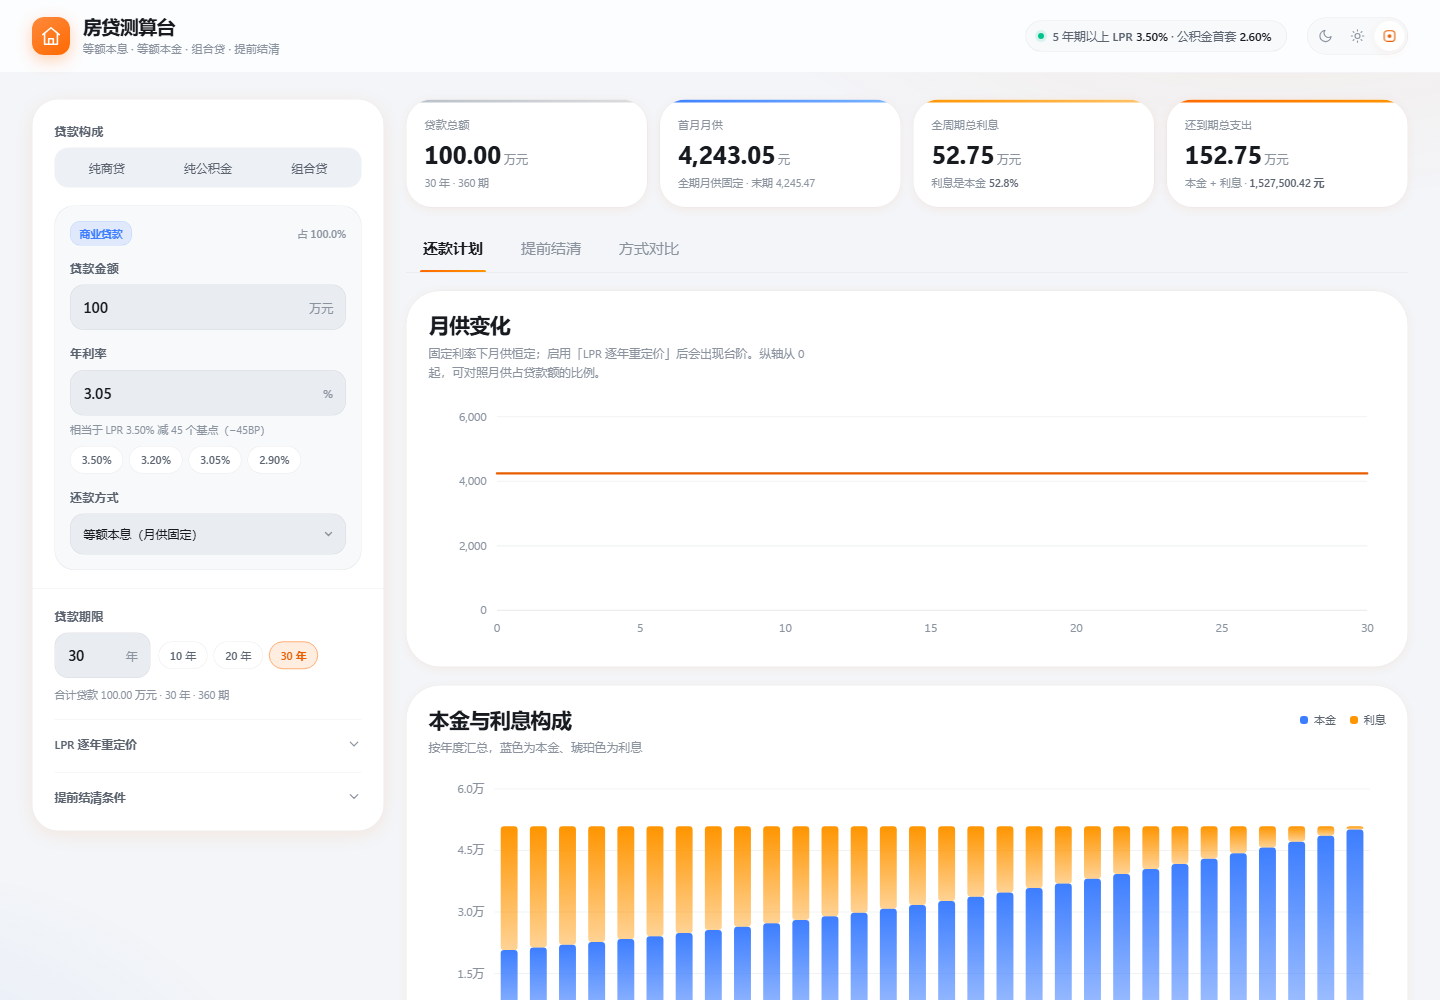
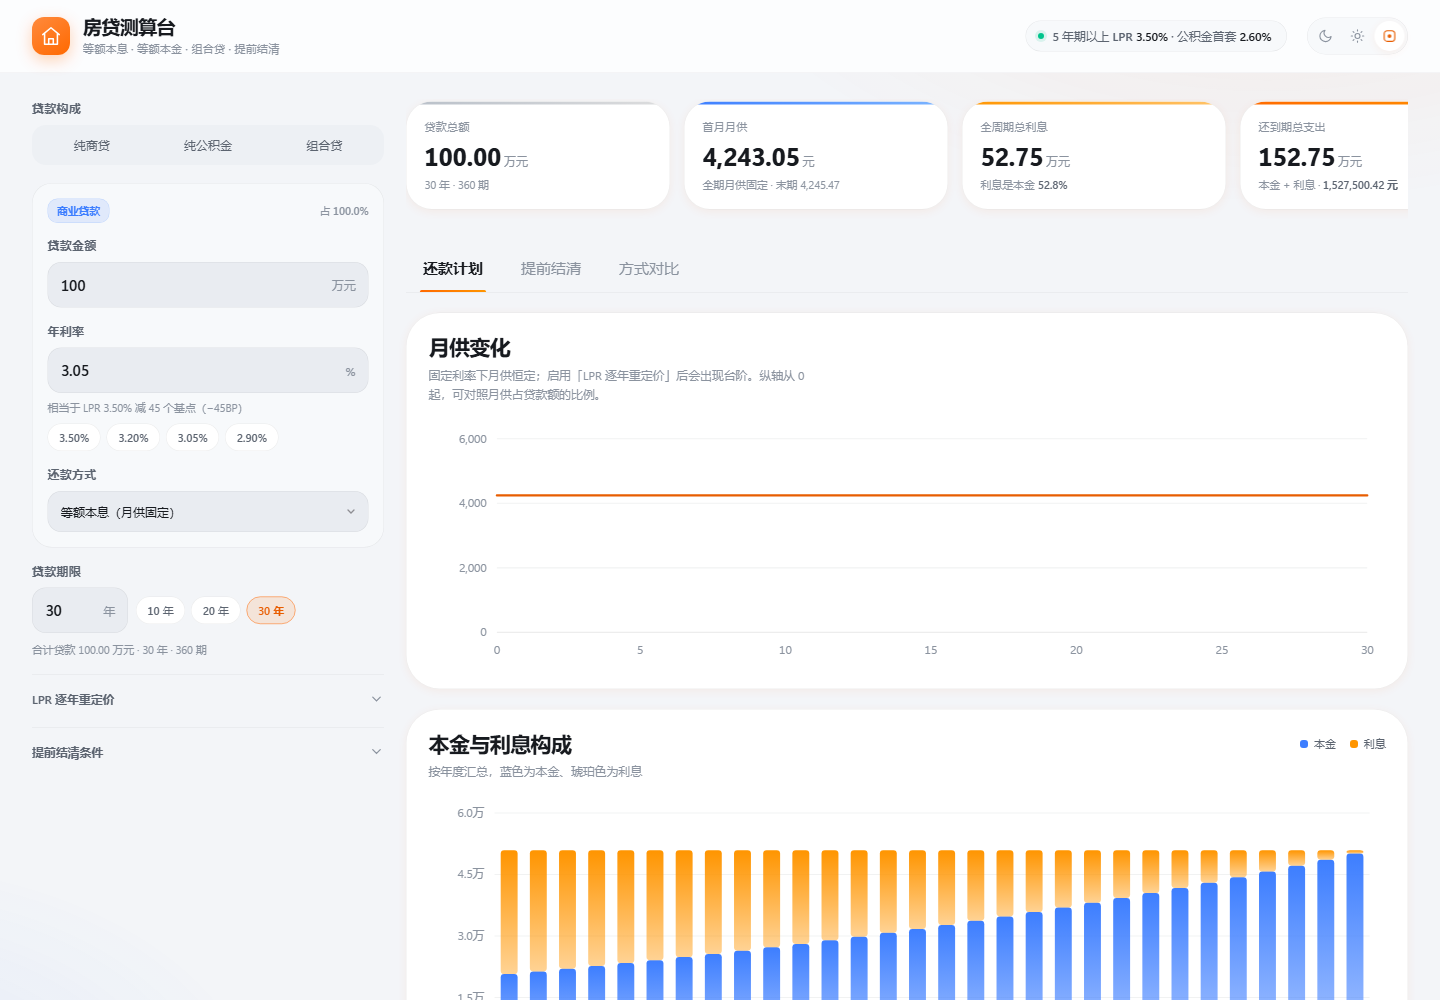
feat: 小米主题升级为卡片化布局变体
不只是换肤，是换结构（仅小米主题生效，Apple 两套不受影响）:

- KPI 变横向滑动大卡片: scroll-snap + 固定 264px 宽，
  第 4 张自然溢出以暗示可滑动。实测 scrollWidth 1102 > clientWidth 1002
- 输入面板拆成独立卡片流: 容器透明化，贷款构成 / 金额 / 期限 /
  高级设置各自成卡，卡片间距承担分隔职责（隐藏分隔线）
- 间距加大，卡片圆角升到 26px，更贴合 HyperOS 的呼吸感

Apple 两套主题仍是标准双栏 + 四列 KPI 网格，已截图确认无回归。

验证方式的一个调整: 横向滑动这类交互行为**截图判断不了**，
改用断言锁住 scrollWidth > clientWidth，比人眼看裁切可靠。

验证: 52 项单测 + 84 项浏览器冒烟全通过

diff --git a/styles/panels.css b/styles/panels.css
@@ -739,3 +739,86 @@ input[type="range"].slider::-moz-range-thumb {
   border-radius: var(--r-pill);
   box-shadow: 0 5px 16px rgba(255, 105, 0, 0.28);
 }
+
+/* ---------------- 小米布局变体：卡片化模块流 ----------------
+   这不只是换肤，是换结构：KPI 变横向滑动大卡片、输入面板拆成
+   独立卡片流。只在小米主题下生效，Apple 两套的双栏布局不受影响。
+   ------------------------------------------------------------- */
+:root[data-theme="xiaomi"] .kpis {
+  display: flex;
+  overflow-x: auto;
+  scroll-snap-type: x mandatory;
+  -webkit-overflow-scrolling: touch;
+  gap: 14px;
+  padding: 2px 2px 16px;
+  scrollbar-width: none;
+}
+
+:root[data-theme="xiaomi"] .kpis::-webkit-scrollbar {
+  display: none;
+}
+
+:root[data-theme="xiaomi"] .kpis > .kpi {
+  /* 固定宽度让第 4 张自然溢出，才看得出可滑动 */
+  width: 264px;
+  min-width: 264px;
+  max-width: 264px;
+  flex: 0 0 264px;
+  scroll-snap-align: start;
+  border-radius: var(--r-lg);
+}
+
+/* 输入面板容器透明化，内部各区块各自成卡 */
+:root[data-theme="xiaomi"] .panel-input {
+  background: transparent;
+  border: none;
+  box-shadow: none;
+  padding: 0;
+  display: flex;
+  flex-direction: column;
+  gap: 14px;
+}
+
+:root[data-theme="xiaomi"] .panel-input > .field-group,
+:root[data-theme="xiaomi"] .panel-input > .loan-block,
+:root[data-theme="xiaomi"] .panel-input > .advanced {
+  background: var(--surface);
+  border: none;
+  border-radius: var(--r-lg);
+  padding: 18px;
+  box-shadow: var(--shadow-xs), var(--inset-hi);
+  margin: 0;
+}
+
+:root[data-theme="xiaomi"] .panel-input > .loan-block {
+  border: none;
+}
+
+:root[data-theme="xiaomi"] .panel-input > .advanced {
+  border-top: none;
+  padding-top: 18px;
+}
+
+/* 卡片间距已经承担分隔职责，线就不需要了 */
+:root[data-theme="xiaomi"] .panel-input .divider {
+  display: none;
+}
+
+:root[data-theme="xiaomi"] .panel-title {
+  padding: 0 6px;
+}
+
+:root[data-theme="xiaomi"] .results {
+  gap: 20px;
+}
+
+:root[data-theme="xiaomi"] .tab-panel {
+  gap: 20px;
+}
+
+/* 移动端下 KPI 滑动卡片保留，但卡片宽度收窄 */
+@media (max-width: 640px) {
+  :root[data-theme="xiaomi"] .kpi {
+    min-width: 200px;
+  }
+}

diff --git a/README.md b/README.md
@@ -126,6 +126,11 @@ LPR 走势是假设，不是预测。快捷情景只作用于前 10 年（更贴
 Apple 那两套强调色保留铜色（产品的识别色）但质感对齐系统强调色；
 小米那套则是完整的品牌橙体系，圆角整体大一档，强调元素走渐变。
 
+**小米主题还带布局变体**（不只换肤）：KPI 变成横向滑动的大卡片
+（`scroll-snap`，固定 264px 宽，第 4 张自然溢出以暗示可滑动），
+输入面板拆成独立卡片流（贷款构成 / 金额 / 期限 / 高级设置各自成卡）。
+Apple 两套仍是标准双栏 + 四列 KPI 网格，结构不受影响。
+
 主题由 CSS 变量驱动，图表的渐变 `stop-color` 同样走变量，切换时无需重绘。
 
 几个刻意的取舍：
@@ -176,7 +181,7 @@ tools/screenshot.mjs    双主题关键状态截图
 
 ```bash
 node --test tests/core.test.mjs tests/quota.test.mjs   # 52 项：核心 39 + 额度政策 13
-node tools/smoke.mjs               # 82 项：真实浏览器加载与交互（需先启动 serve.mjs）
+node tools/smoke.mjs               # 84 项：真实浏览器加载与交互（需先启动 serve.mjs）
 node tools/screenshot.mjs          # 输出到 docs/screenshots/（深浅两套主题）
 ```
 
